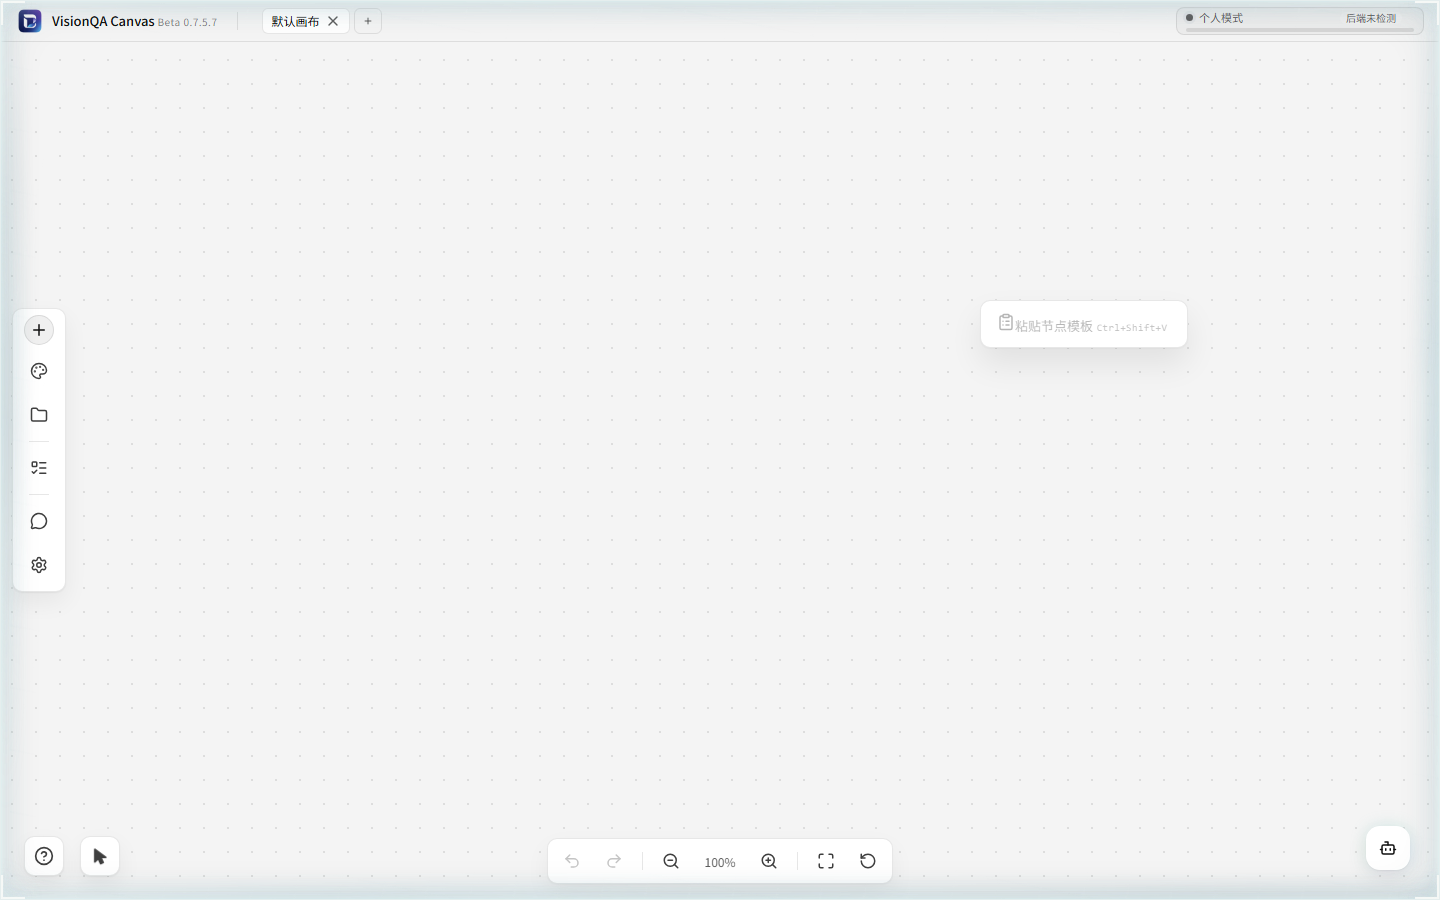
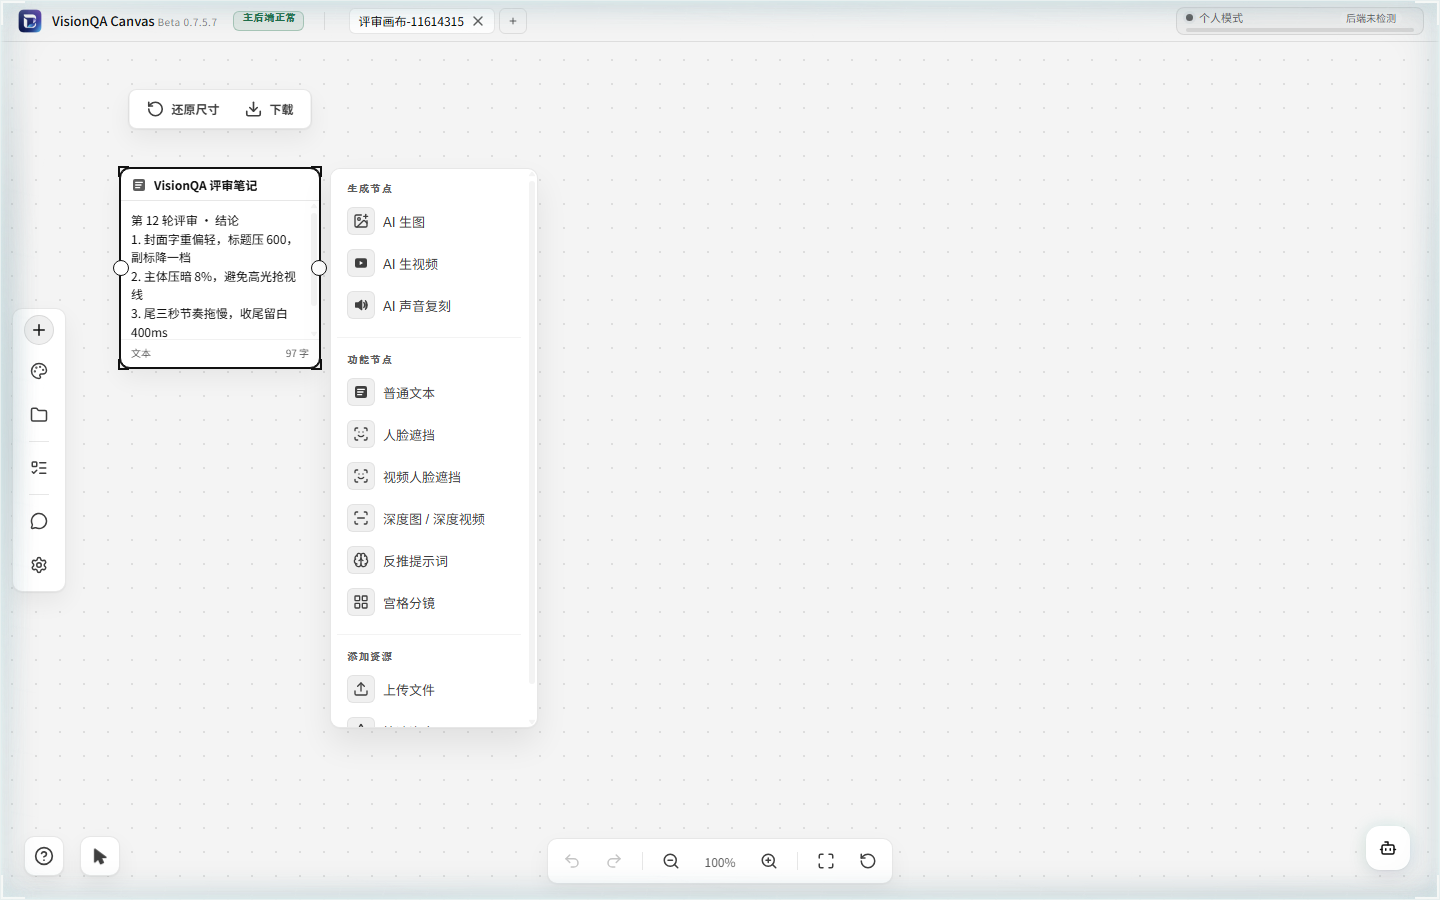
feat(canvas): 画布与工作台数据打通（列画布/建画布/写评审笔记）+ 第二轮主题落地文档

diff --git a/src/pages/CanvasPage.tsx b/src/pages/CanvasPage.tsx
@@ -106,6 +106,8 @@ function CanvasWorkspace({ onToast }: CanvasPageProps) {
   const [noteOpen, setNoteOpen] = useState(false)
   const [noteText, setNoteText] = useState('')
   const [noteBusy, setNoteBusy] = useState(false)
+  // 写完笔记让 iframe 重新挂载一次，画布直接重载出那条文本节点
+  const [frameKey, setFrameKey] = useState(0)
   const [zoom, setZoom] = useState(1)
   const [historyCount, setHistoryCount] = useState(0)
   const [futureCount, setFutureCount] = useState(0)
@@ -694,7 +696,8 @@ function CanvasWorkspace({ onToast }: CanvasPageProps) {
       setNoteText('')
       setNoteOpen(false)
       await reloadCanvases()
-      toast?.('已写进画布，刷新画布即可看到那条文本节点')
+      setFrameKey((key) => key + 1)
+      toast?.('已写进画布，画布正在重载')
     } catch (error) {
       toast?.(error instanceof Error ? error.message : '写入画布失败')
     } finally {
@@ -870,7 +873,7 @@ function CanvasWorkspace({ onToast }: CanvasPageProps) {
             <button className="cv-btn" type="button" onClick={() => setBdcView(false)}>用内置编排</button>
           </div>
         ) : (
-          <iframe className="cv-bdc-frame" src={bdcFrameSrc} title="VisionQA Canvas" />
+          <iframe key={frameKey} className="cv-bdc-frame" src={bdcFrameSrc} title="VisionQA Canvas" />
         )
       ) : loadState === 'error' ? (
         <div className="cv-state">

diff --git a/README.md b/README.md
@@ -256,11 +256,33 @@ DOMAIN=visionqa.wavisionai.cn bash deploy/production/enable-https.sh            
 
 **画布已加 Basic Auth**（2026-11-06 追加）：`canvas.wavisionai.cn` 默认 401，用户 `canvas`；iframe 走一次性入口 `/__auth?k=<token>` —— nginx 种 30 天 cookie 后所有资源请求免登录，所以嵌在 VisionQA 里不会弹登录框。`/admin`、`/api/admin`、`/enterprise/admin` 仍然只放行 127.0.0.1。VisionQA 侧新增两个环境变量：`BDC_EMBED_URL`（iframe 用，带 token）与 `BDC_WEB_PROBE_URL`（探活用本机 6677，避免 401 把 `deployed` 误判成 false）。
 
-**外壳对齐（2026-11-06）**：VisionQA Canvas 用 token 覆盖层 `src/ui/styles/visionqa-align.css`（部署方自用，不改它的组件结构）把 `--ui-*` 映射到 VisionQA 的 `tokens.css`：字体栈、6/10px 圆角、4/8pt 间距、`#f4f4f4` 画布 + 发丝线、单层轻阴影、等宽微标签。顶栏 44px、页签 28px、状态胶囊 20px，跟宿主 42px 状态条同一套比例。
+**外壳对齐（2026-11-06）**：主题只在 `deploy/bd-canvas/vq-theme.css`（部署方自用，不改它的组件结构），发布时拷成 `<canvas>/public/vq-theme.css`、在 `index.html` 里以 `#vq-bdc-theme` 引入。十节内容：
 
-![线上画布：VisionQA 外壳里嵌的 VisionQA Canvas 本体](docs/bdc-live.png)
+1. 第 1–8 节把它的 `--ui-*` 变量用 `:root:root` + `!important` 映射到 VisionQA 的 `tokens.css`——字体栈、6/10px 圆角、4/8pt 间距、`#f4f4f4` 画布 + 发丝线、单层轻阴影、等宽微标签。
+2. 第 9 节管顶栏几何：`height: 42px !important`（只写 `min-height` 会被它自己的 48px 规则压住）、页签 26px/6px/12px、状态胶囊等宽 10px。
+3. 第 10 节管左侧组件面板与右键菜单：面板 288px 白底 10px 圆角、44px 表头、分组标题等宽 10px/0.12em、行高 36px、图标方块 24px；右键菜单与节点创建菜单 208px 宽、行高 34px、快捷键右对齐（补了 `display:flex` + `margin-left:auto`，它原本是 `display:block`，标签和快捷键会挤在一起）。
 
 ![线上实拍：42px 状态条与画布顶栏同高同色，品牌已统一为 VisionQA Canvas](docs/bdc-aligned.png)
+
+**画布与工作台数据打通（2026-11-06）**：工作台不再只是「嵌一个 iframe」，它和后端共用同一批画布。
+
+| 工作台接口 | 干什么 | 打到的画布接口 |
+| --- | --- | --- |
+| `GET /api/bdc/canvases` | 列画布（名称、节点数、版本、更新时间） | `GET /api/canvas/list` |
+| `POST /api/bdc/canvases` | 建一块空画布（id 形如 `vq-*`） | `POST /api/canvas/save` |
+| `POST /api/bdc/canvases/note` | 把评审结论落成画布里的一个文本节点 | `GET /api/canvas/load/:id` + `POST /api/canvas/save`（带 `expected_revision` 乐观锁，别人同时改了返回冲突而不是覆盖） |
+
+界面就在 42px 状态条里：`画布项目` 下拉（选中即用 `&loadCanvas=<id>` 深链换画布）、`新建`、`写笔记`（写完 iframe 自动重挂载，立刻能看到那条文本节点）。
+
+![工作台里写评审笔记：状态条多了画布项目、新建与写笔记](docs/bdc-bridge-note.png)
+
+![写完自动重载：评审结论成了画布左上角的文本节点，节点数同步成 1](docs/bdc-bridge-workbench.png)
+
+打通时踩到的三个硬点（都是上游行为，记住能省一天）：
+
+1. **公网访客模式只读浏览器**：`isPublicWebClient()` 把任何非内网 Host 当公网访客，画布数据存 localStorage，服务端的画布永远加载不出来（深链报 `Load failed`）。改成把 `canvas.wavisionai.cn` 当「本机安装」（`runtimeMode.ts` 里加 `VITE_TRUSTED_HOSTS` 白名单），数据才落到服务端 workspace。
+2. **一次性入口会吃掉查询串**：`/__auth?k=…&loadCanvas=<id>` 原本一律 `return 302 /`，深链参数直接丢。nginx 里补 `if ($arg_loadCanvas) { return 302 /?loadCanvas=$arg_loadCanvas; }`。
+3. **文本节点的正文在 `prompt` 不在 `params.text`**：照它自己的 `createTextNode` 写——`{ type:'text', prompt: 正文, model:'text', params:{ _width:360, _height:220, _agentTextNode:true } }`，写进 `params.text` 的会显示成「0 字」。
 
 
 ## 九、怎么跑
